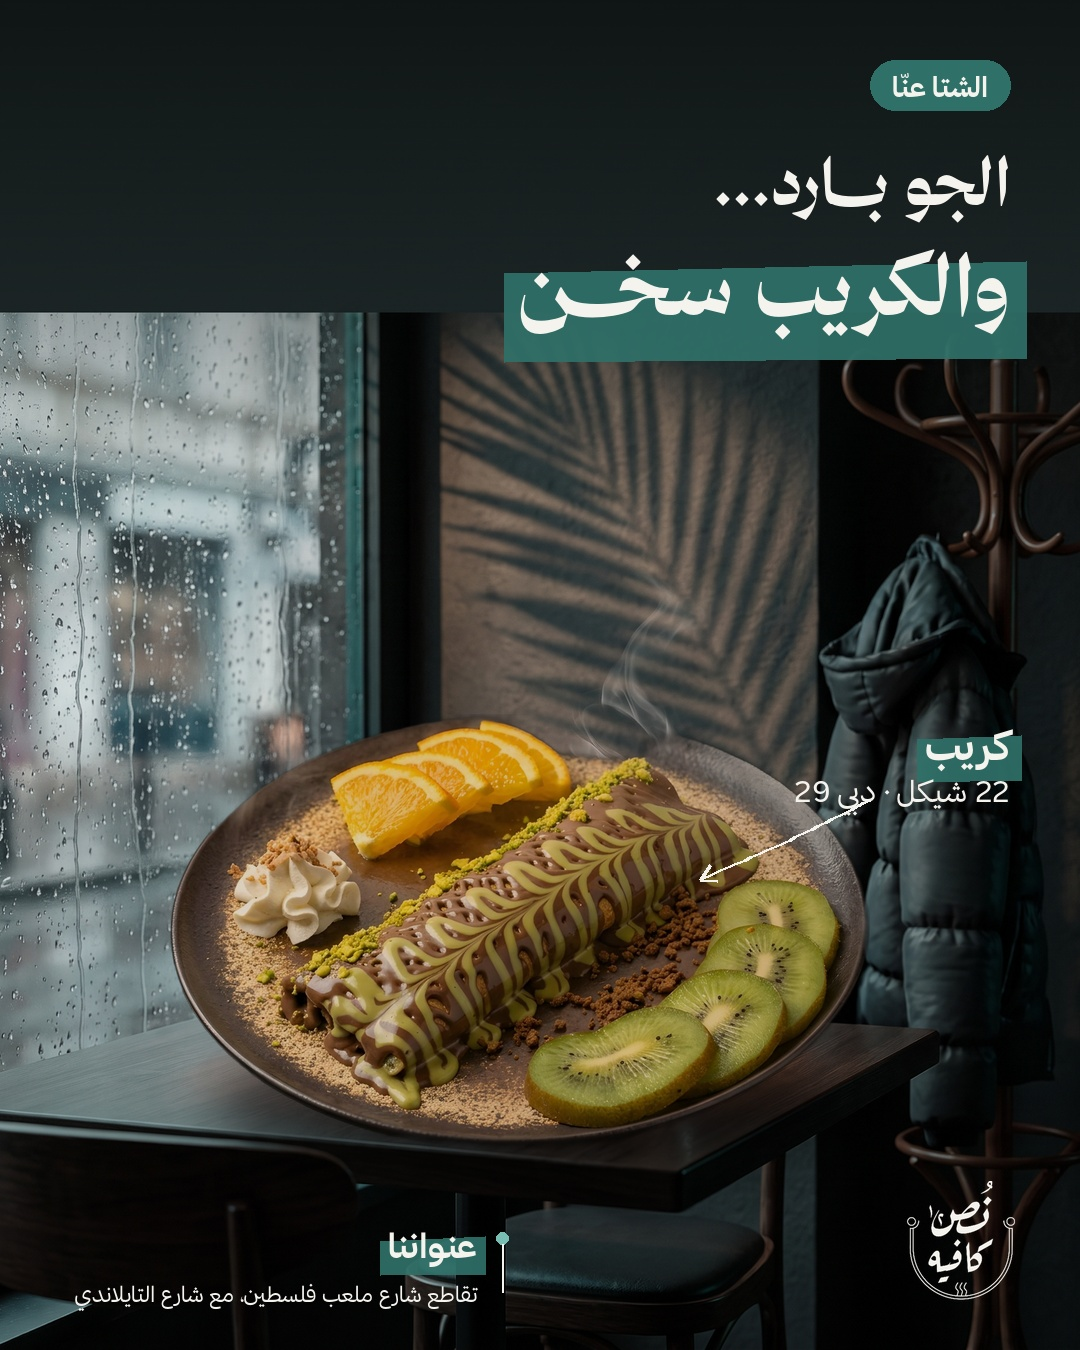
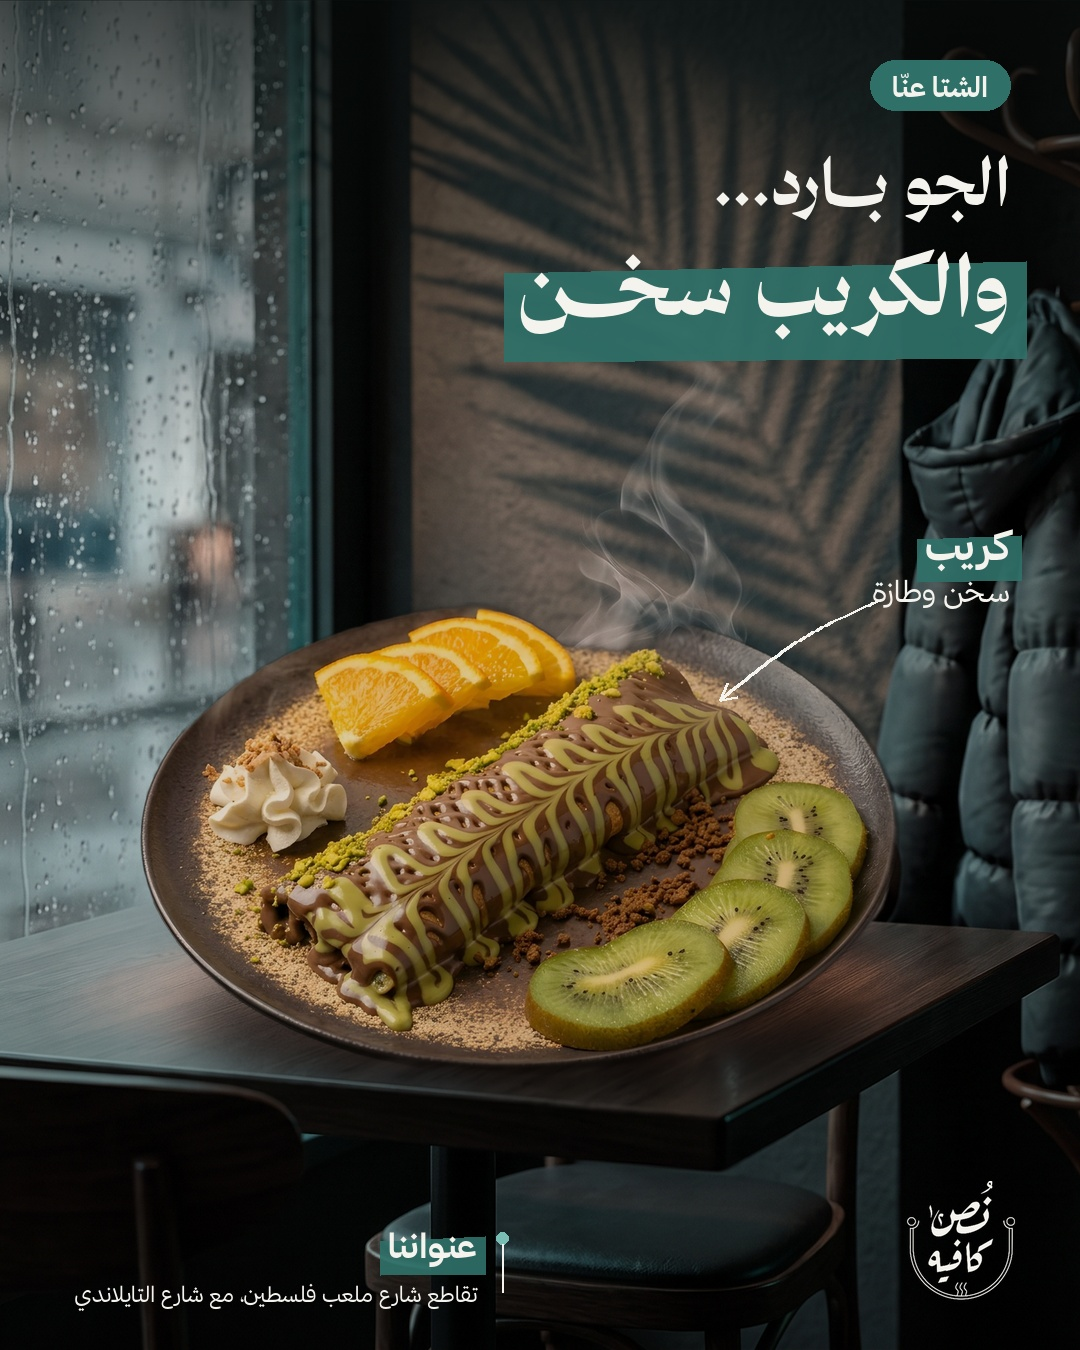
Winter place: plate on table, full scene top, no prices, raised arrows
Claude-Session: https://claude.ai/code/session_015dwSS3fWoFBppmEP84oyNx

diff --git a/tools/winter_place.py b/tools/winter_place.py
@@ -16,8 +16,8 @@ def finish(base,pill,l1,l2,lab,name):
     im=topdark(base,520,180); CUR[0]=im.copy(); head(im,pill,l1,l2)
     mlabel(im,*lab); footer_c(im); im.convert('RGB').save(O+name+'.jpg',quality=95)
 b=place('win/c04.png','cuts/rnut.png',490,1095,740)
-finish(b,'جلد ذات شتوي','نوتيلا مثلّجـــة...','جامدة متل قلب حـــدا',(1010,800,'كيك نوتيلا','22 شيكل · مثلّجة',[(870,830),(760,830),(640,850)]),'P1_nutella')
-b=place('win/c01.png','cuts/rcrepe.png',520,1150,700)
-finish(b,'الشتا عنّا','الجو بـــارد...','والكريب سخـــن',(1010,760,'كريب','22 شيكل · دبي 29',[(870,800),(790,840),(700,880)]),'P2_crepe')
+finish(b,'جلد ذات شتوي','نوتيلا مثلّجـــة...','جامدة متل قلب حـــدا',(1010,640,'كيك نوتيلا','مثلّجة ومغرّقة نوتيلا',[(880,680),(780,720),(660,790)]),'P1_nutella')
+b=place('win/c01_full.png','cuts/rcrepe.png',520,1075,760)
+finish(b,'الشتا عنّا','الجو بـــارد...','والكريب سخـــن',(1010,560,'كريب','سخن وطازة',[(880,600),(800,640),(720,700)]),'P2_crepe')
 from PIL import Image as I2
 a=_open(O+'P1_nutella.jpg').resize((540,675)); bb=_open(O+'P2_crepe.jpg').resize((540,675)); s=I2.new('RGB',(1080,675)); s.paste(a,(0,0)); s.paste(bb,(540,0)); s.save(O+'preview.jpg'); print('ok')

diff --git a/posts/winter_place/CAPTIONS.md b/posts/winter_place/CAPTIONS.md
@@ -2,14 +2,14 @@
 
 ## P1_nutella.jpg
 ```
-كيك نوتيلا مثلّجة… جامدة متل قلب اللي عمل سين زرقا وما ردّ 💔 22 شيكل
+كيك نوتيلا مثلّجة… جامدة متل قلب اللي عمل سين زرقا وما ردّ 💔
 📍 تقاطع شارع ملعب فلسطين، مع شارع التايلاندي
 #نص_كافيه #كيك_نوتيلا
 ```
 
 ## P2_crepe.jpg
 ```
-الجو بارد… والكريب سخن 🔥 كريب 22، مكس 24، ودبي 29
+الجو بارد… والكريب سخن 🔥
 📍 تقاطع شارع ملعب فلسطين، مع شارع التايلاندي
 #نص_كافيه #كريب
 ```
